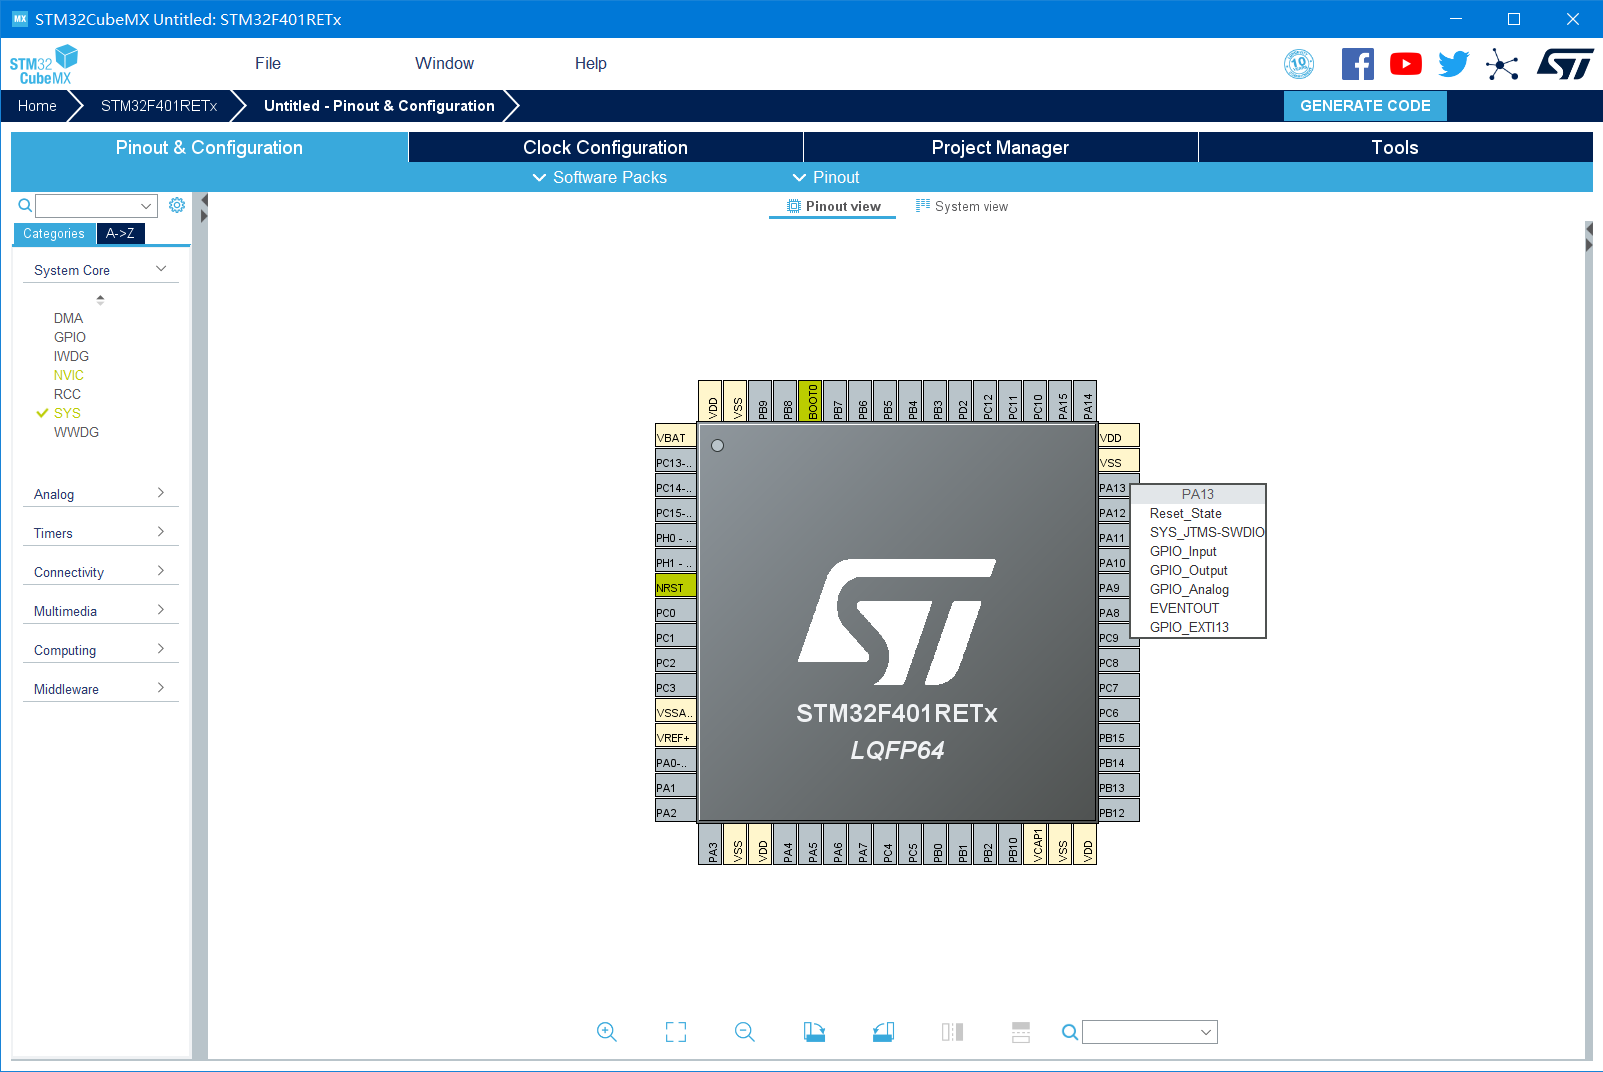
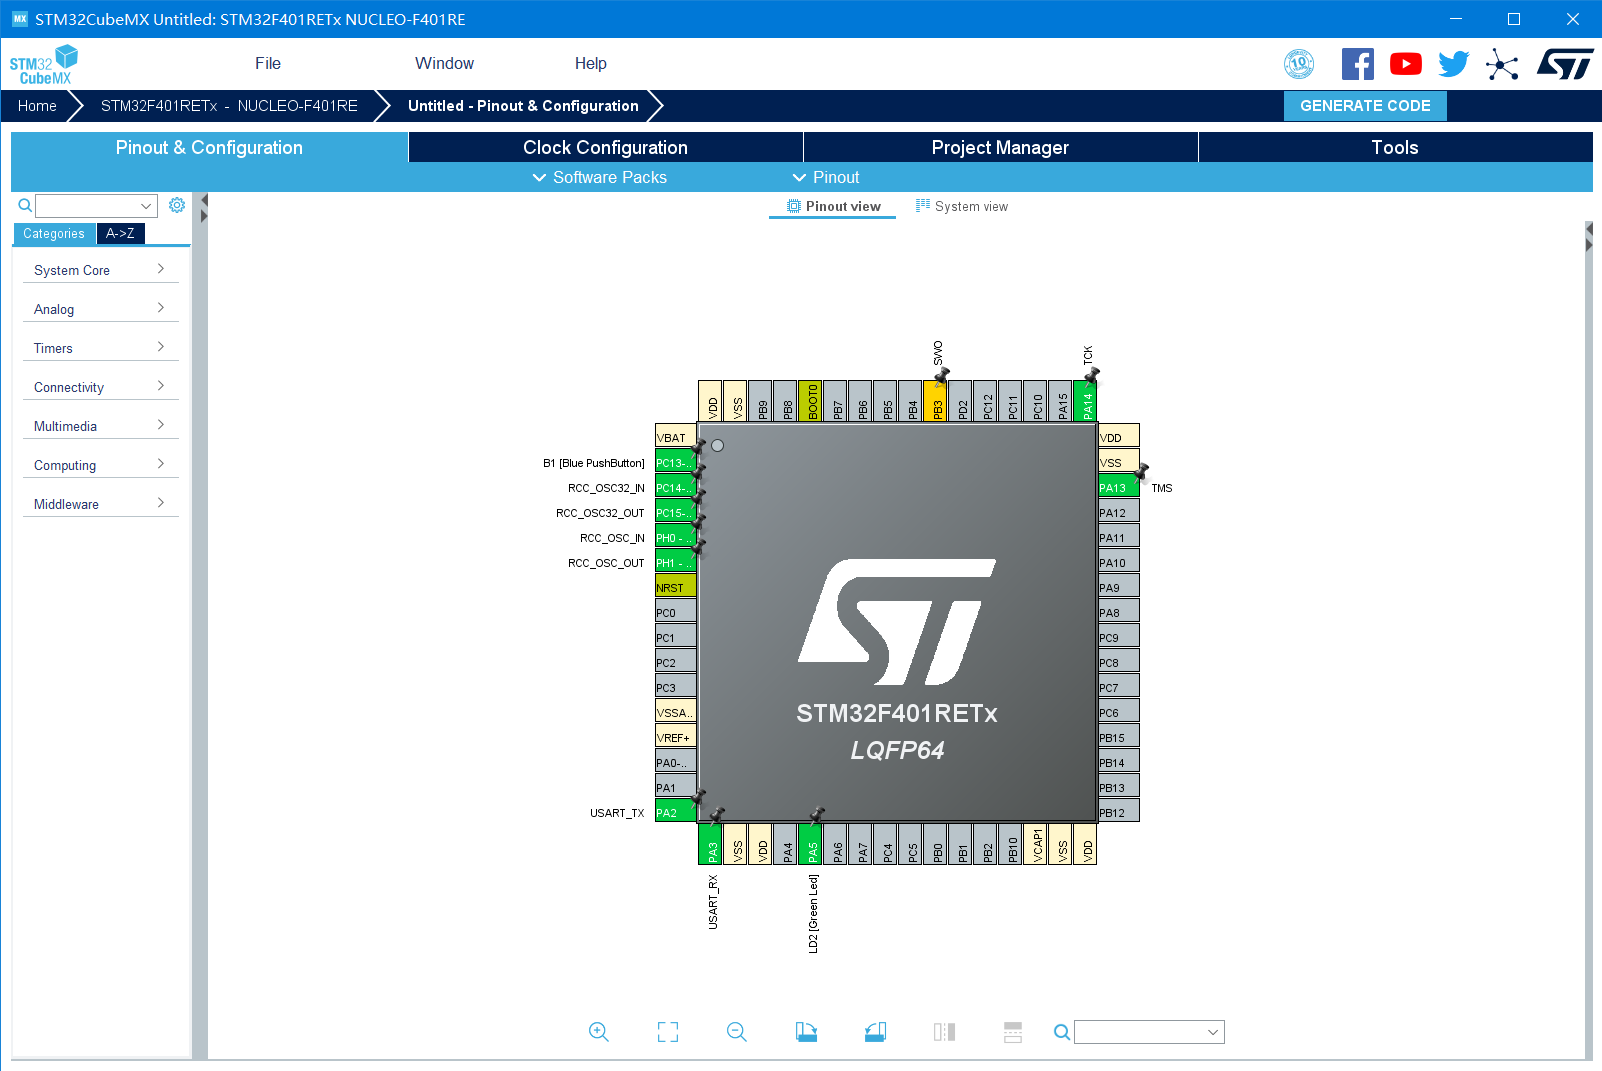
edit in laptop-matebook14

diff --git a/docs/stm32/project.md b/docs/stm32/project.md
@@ -1,0 +1,161 @@
+[CSDN配置教程](https://blog.csdn.net/qq_33559992/article/details/97548915)
+
+# 文档导航
+- [文档导航](#文档导航)
+- [环境配置](#环境配置)
+  - [安装 VS code](#安装-vs-code)
+  - [安装 LLVM](#安装-llvm)
+  - [安装 Git for Windows](#安装-git-for-windows)
+  - [安装 arm-none-eabi-gcc](#安装-arm-none-eabi-gcc)
+  - [安装 OpenOCD for Windows](#安装-openocd-for-windows)
+  - [安装 STM32CubeMX](#安装-stm32cubemx)
+- [搭建环境](#搭建环境)
+  - [STM32CubeMX](#stm32cubemx)
+    - [创建工程](#创建工程)
+    - [配置 vscode](#配置-vscode)
+      - [vscode 插件配置](#vscode-插件配置)
+      - [vscode 终端选择](#vscode-终端选择)
+
+
+# 环境配置
+| 安装内容 | 功能 |
+| :--: | :-- |
+| [VS code](#安装-vs-code) | 作为代码编辑器 |
+| [LLVM](#安装-llvm) | 代码补全 |
+| [Git for Windows](#安装-git-for-windows) | - |
+| [arm-none-eabi-gcc](#安装-arm-none-eabi-gcc) | - |
+| [OpenOCD for Windows](#安装-openocd-for-windows) | - |
+| [STM32CubeMX](#安装-stm32cubemx) | - |
+
+
+## 安装 VS code
+https://code.visualstudio.com/
+
+## 安装 LLVM
+(https://releases.llvm.org/download.html) ：代码补全，其实可以理解为 Clang。安装完成后，将路径添加到环境变量里。
+
+
+## 安装 Git for Windows
+(https://gitforwindows.org/): 提供 Git 支持和 MINGW64 指令终端。
+
+[MINGW](https://sourceforge.net/projects/mingw/files/latest/download?source=files)
+
+## 安装 arm-none-eabi-gcc
+[arm-none-eabi-gcc](https://launchpad.net/gcc-arm-embedded/+download)：选择  [gcc-arm-none-eabi-5_4-2016q3-20160926-win32.exe (md5)](https://launchpadlibrarian.net/287101671/gcc-arm-none-eabi-5_4-2016q3-20160926-win32.exe)
+
+其他的新版的下载，[GNU Arm Embedded Toolchain](https://developer.arm.com/tools-and-software/open-source-software/developer-tools/gnu-toolchain/gnu-rm/downloads) 。
+
+正常安装后，记得需要将软件的安装目录下的bin文件夹设置进入环境变量PATH中。
+
+## 安装 OpenOCD for Windows
+(https://gnutoolchains.com/arm-eabi/openocd/) ：
+一个开源的片上调试器(Open On-Chip Debugger)。
+在Windows下自己编译可能有问题 。所以，我们选择编译好的。
+下载后的文件不是安装包，把程序文件夹放入自己的软件安装目录下，将软件的bin文件夹路径加入用户环境变量PATH中。
+
+## 安装 STM32CubeMX
+(https://www.st.com/zh/development-tools/stm32cubemx.html)：用于生成带makefile的工程。
+这样我们就可以不用自己写MakeFile了。套用他的模板，然后修改为自己的目录就可以。
+
+
+
+# 搭建环境
+## STM32CubeMX
+STM32CubeMX是一个配置STM32代码的工具，它把很多东西封装的比较好，硬件抽象层、中间层、示例代码等。
+
+现在ST公司升级和维护的库主要就是STM32CubeMX的HAL库和标准外设库，使用这两种库开发STM32各有各的好处，下面简单描述一下。
+
+STM32CubeMX是一个图形化的工具，也是配置和初始化C代码生成器（STM32 configuration and initialization C code generation），也就是自动生成开发初期关于芯片相关的一些初始化代码。
+
+从上图可以看得出，它包含了STM32所有系列的芯片，包含示例和样本（Examples and demos）、中间组件（Middleware Components）、硬件抽象层（Hardwaree abstraction layer）。
+
+
+---
+由于STM32CubeMX软件是基于JAVA环境运行的，所以需要安装JRE才能使用，目前（2016年10月31日）JRE最新版本是jre1.8.0_112。
+
+TM32CubeMX要求JRE最低版本是1.7.0_45，如果你电脑已安装JRE版本大于1.7.0_45，则可以不用再下载安装。
+
+
+### 创建工程
+需要选择“help -> updater settings ->Connection Parameters"设置好网络后，才能下载固件包
+
+![net connection parameters](img/stm32cubemx/net_connection_parameters.png)
+
+下载就可以了
+
+![download package](img/stm32cubemx/download_packages.png)
+
+主页面
+主页右边可以安装不同芯片的支持包，例如F1系列，F4系列
+![main widget](img/stm32cubemx/main_widget.png)
+
+`new project` 新建项目
+左上角File..可以新建项目。
+新建项目以后，SYS里选择debug接口，这里选的是SWD，也可以选JTAG
+![new project](img/stm32cubemx/new_project.png)
+
+选择好板子，这里也可以看到的开发板的特性 `features` 
+![features](img/stm32cubemx/features.png)
+
+
+开发文档和手册都可以下载
+![开发文档](img/stm32cubemx/docs_resources.png)
+\
+
+peripherals
+下一步
+
+接口配置
+![接口配置](img/stm32cubemx/pinout_config.png)
+
+时钟配置
+先在RCC里选择高速外部时钟（HSE）和低速外部时钟源（LSE），这里选的都是晶振（因为板子上有这两个晶振）。
+然后选择“时钟配置”，先在左边填好外部晶振的频率，然后在右边填上自己想要的主频，Cube会自动帮你配置锁相环。
+![clock config](img/stm32cubemx/clock_config.png)
+
+项目管理
+Toolchain/IDE选择生成makefile即可。前面的项目结构我选的basic，你也可以选Advanced，后面目录结构就不一样了，VSCode的配置要稍微改一下。
+这里要选择 ``makefile`` 输出
+
+![project manager](img/stm32cubemx/project_manager.png)
+
+工具下载
+![tools](img/stm32cubemx/tools_download.png)
+
+
+### 配置 vscode
+
+导出后，vscode打开文件
+
+.ioc文件和.mxproject文件是STM32Cube的工程文件，Driver里是STM32和ARM CMSIS的库，最好不要修改。Inc和Src是供用户修改的源码。
+
+![vscode](img/stm32cubemx/project_in_vscode.png)
+
+#### vscode 插件配置
+- Chinese (Simplified)：VS Code的语言支持是以插件形式存在的，需要装个中文插件;、
+
+- C/C++：提供代码补全、智能感知和debug功能；（注意，VSCode 可能会推荐你安装C/C++ Intellisense插件来做智能感知 ，但它依赖于GNU Global工具，我们的arm工具链里没有这个，所以不用装）；
+
+- C/C++ Snippets：好用的代码模板小工具。比如说，装好以后，敲个for，就可以自动补全整个for循环代码；
+
+- ARM：提供ARM汇编语言的代码高亮；
+
+- Cortex-Debug：本教程的核心，有了它，才能把ARM工具链和OpenOCD等命令行工具组织到VSCode中，并进行图形化操作。
+
+#### vscode 终端选择
+文件--首选项--设置，搜索terminal，设置内置终端的Shell为git bash（之前的默认是power shell）。
+
+点击“在settings.json中编辑"，修改为自己安装git bash的路径：
+```json
+"terminal.integrated.shell.windows": "C:/Program Files/Git/bin/bash.exe",
+```
+Ctrl+S保存后，按 Ctrl+` （波浪线那个键） 就可以打开终端，就可以看到Bash了：
+
+【推荐】如果你只想在开发STM32的时候用bash，可以只在当前目录下新建一个.vscode文件夹，然后新建一个单独的 `settings.json` ，在里面写上：
+```json
+{
+    "terminal.integrated.shell.windows": "C:/Program Files/Git/bin/bash.exe"
+}
+```
+
+
